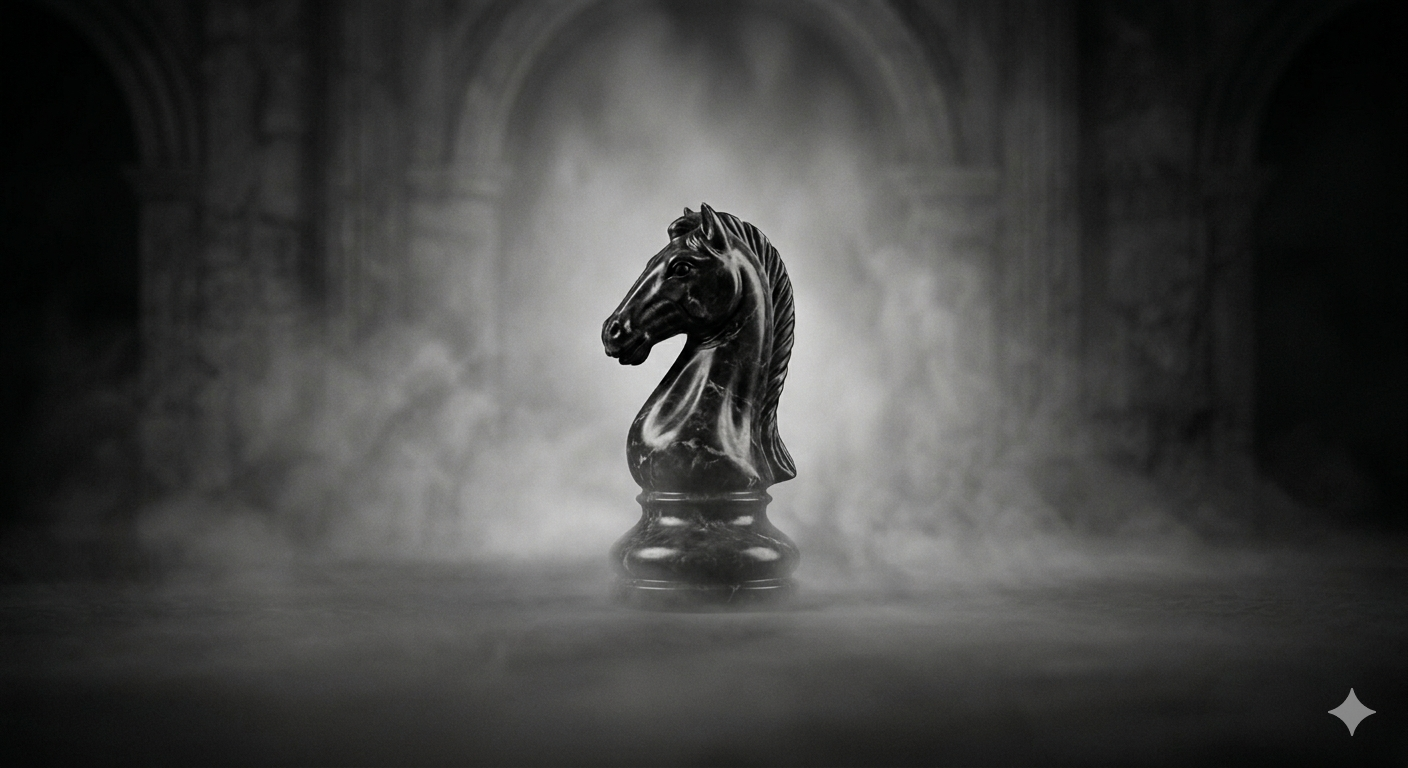
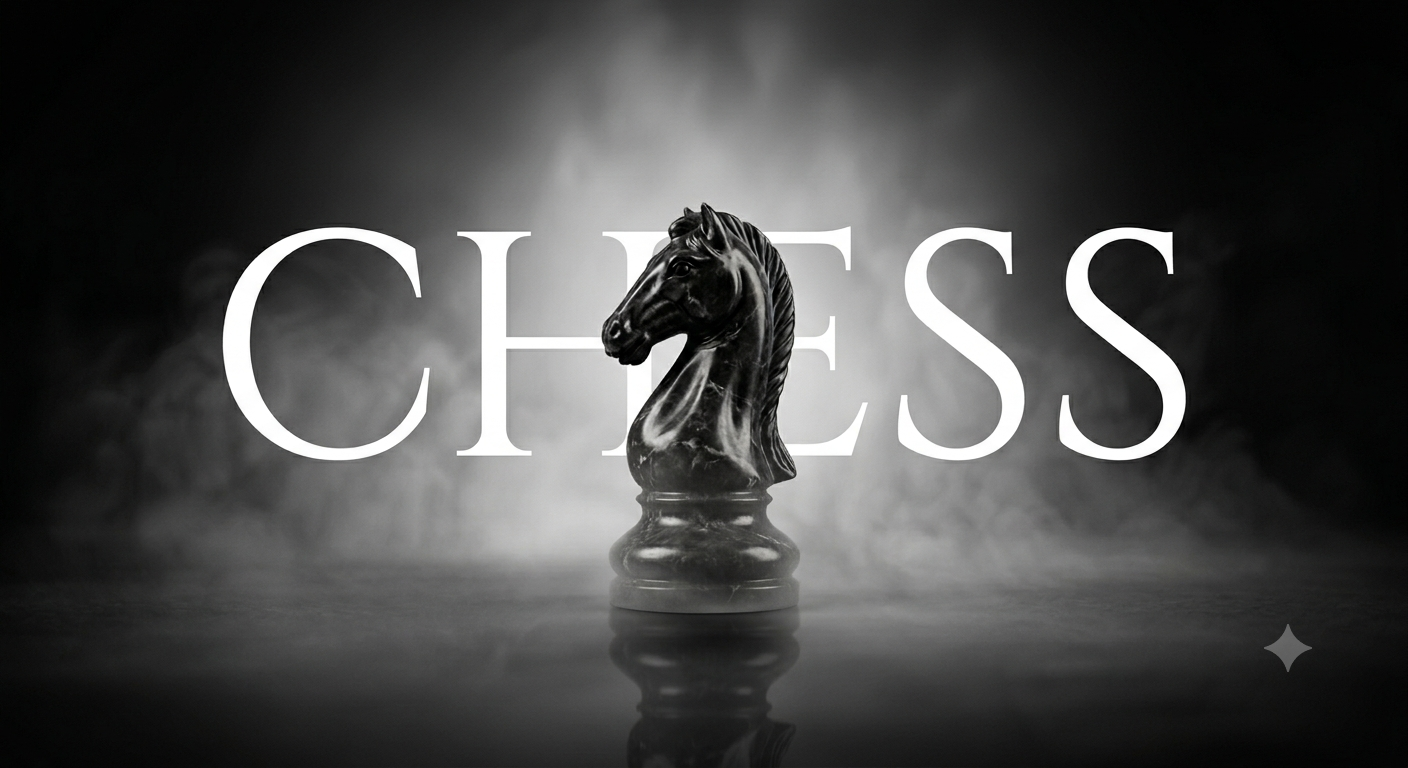
Visual improvements

diff --git a/apps/frontend/index.html b/apps/frontend/index.html
@@ -26,10 +26,14 @@
         </div>
     </header>
     <main class="h-full w-full">
-        <img class="w-full h-full fixed blur-xs" src="/horse.png" >
+        <img class="w-full h-full fixed" src="/horse.png" >
         <div x-show="$store.navigator.isHome()" class="w-full h-full flex items-center justify-center z-10"></div>
-        <div x-show="$store.navigator.isLogin()" class="backdrop-blur-sm w-full h-full flex items-center justify-center z-10">
-            <form class="ds-bg-primary p-4 space-y-2 flex flex-col rounded-lg">
+        <div x-show="$store.navigator.isLogin()" class="backdrop-blur-sm bg-black/80 w-full h-full flex items-center justify-center z-10">
+            <form class="ds-bg-primary ds-border-default p-4 space-y-2 flex flex-col rounded-lg">
+                <div class="w-96 flex flex-col">
+                    <p class="ds-text-primary text-2xl font-bold">Welcome.</p>
+                    <p class="ds-text-secondary">Become part of this community today.</p>
+                </div>
                 <div class="w-96 flex flex-col" x-data="{ errors: [] }">
                     <span class="ds-bg-secondary px-3 py-2 space-x-2 flex items-center border rounded transition-colors duration-300 outline-transparent hover:outline-amber-500 hover:outline active:outline" :class="errors.length == 0 ? 'ds-border-default' : 'border-rose-700'">
                         <i class="bi bi-person h-full aspect-square flex-none flex items-center"></i>
@@ -82,8 +86,7 @@
                     :class="$store.register.valid ? 'hover:ds-bg-elevated-primary cursor-pointer' : 'opacity-50'"
                     @click="$store.register.submit()"
                     class="ds-bg-secondary ds-border-default px-4 py-2 space-x-2 flex items-center justify-center border rounded transition-colors duration-300">
-                    <span>Continue</span>
-                    <i class="bi bi-arrow-right h-full aspect-square flex-none flex items-center"></i>
+                    <span>Register</span>
                 </button>
                 <div class="py-2 flex items-center space-x-2 w-full">
                     <div class="flex-1 h-px ds-bg-secondary"></div>
@@ -104,6 +107,14 @@
                     <i class="bi bi-google text-xs"></i>
                     <span>Continue with Google</span>
                 </button>
+                <div class="py-2 flex items-center space-x-2 w-full">
+                    <div class="flex-1 h-px ds-bg-secondary"></div>
+                    <span class="ds-text-secondary whitespace-nowrap">
+                        Already have an account?
+                        <button type="button" class="text-amber-500 cursor-pointer">Log in.</button>
+                    </span>
+                    <div class="flex-1 h-px ds-bg-secondary"></div>
+                </div>
             </form>
         </div>
         <div x-show="$store.navigator.isMatch()" class="backdrop-blur-sm w-full h-full flex items-start justify-center z-10">

diff --git a/apps/frontend/src/style.css b/apps/frontend/src/style.css
@@ -20,6 +20,14 @@
     background-color: var(--background-elevated);
 }
 
+@utility ds-bg-accent {
+    background-color: var(--accent);
+}
+
+@utility ds-bg-accent-elevated {
+    background-color: var(--accent-elevated);
+}
+
 @utility ds-text-primary {
     color: var(--text-primary);
 }
@@ -37,14 +45,17 @@
 }
 
 @utility ds-border-subtle {
+    border-width: 1px;
     border-color: var(--border-subtle);
 }
 
 @utility ds-border-default {
+    border-width: 1px;
     border-color: var(--border-default);
 }
 
 @utility ds-border-strong {
+    border-width: 1px;
     border-color: var(--border-strong);
 }
 
@@ -58,6 +69,9 @@ input:-webkit-autofill:active {
 }
 
 .dark {
+    --accent: rgb(187, 77, 0);
+    --accent-elevated: rgb(225, 113, 0);
+
     /* Backgrounds */
     --background-primary: var(--gray-85);
     --background-secondary: var(--gray-90);
@@ -94,6 +108,9 @@ input:-webkit-autofill:active {
 }
 
 :root {
+    --accent: rgb(187, 77, 0);
+    --accent-elevated: rgb(225, 113, 0);
+
     /* Backgrounds */
     --background-primary: var(--gray-10);
     --background-secondary: var(--gray-15);

diff --git a/packages/common/src/routes.ts b/packages/common/src/routes.ts
@@ -3,6 +3,7 @@ export const Routes = {
     MATCH: "/match",
     USERS: "/users",
     LOGIN: "/auth/login",
+    SIGNUP: "/auth/signup",
     REGISTER: "/auth/register"
 } as const;
 
